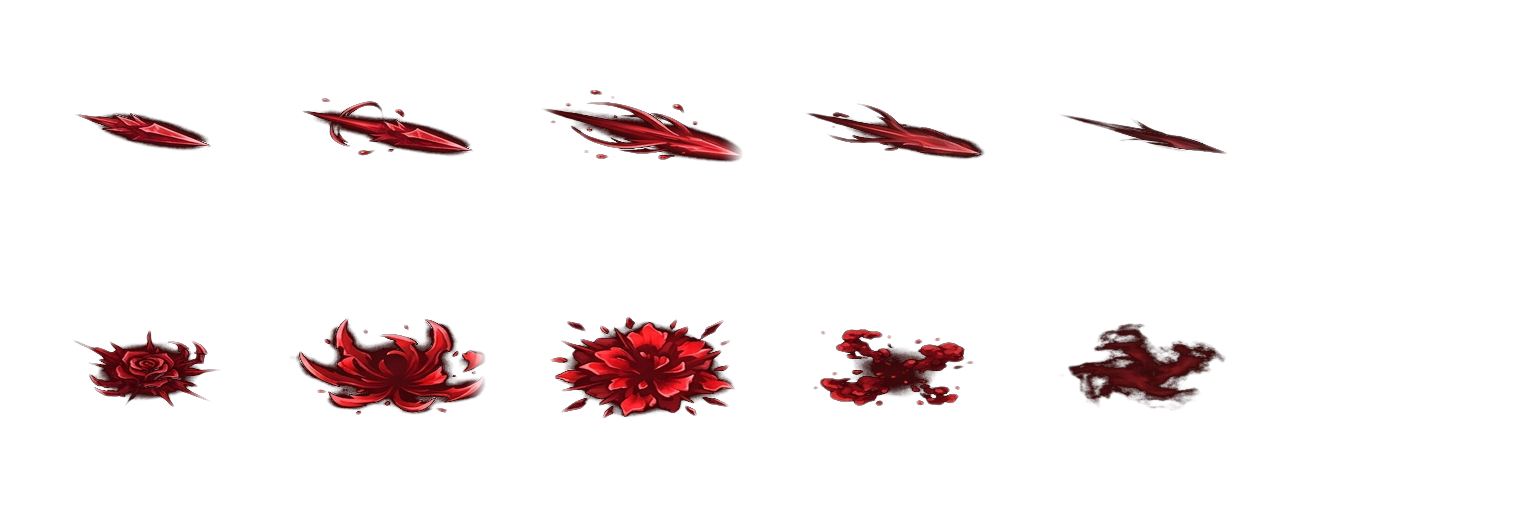
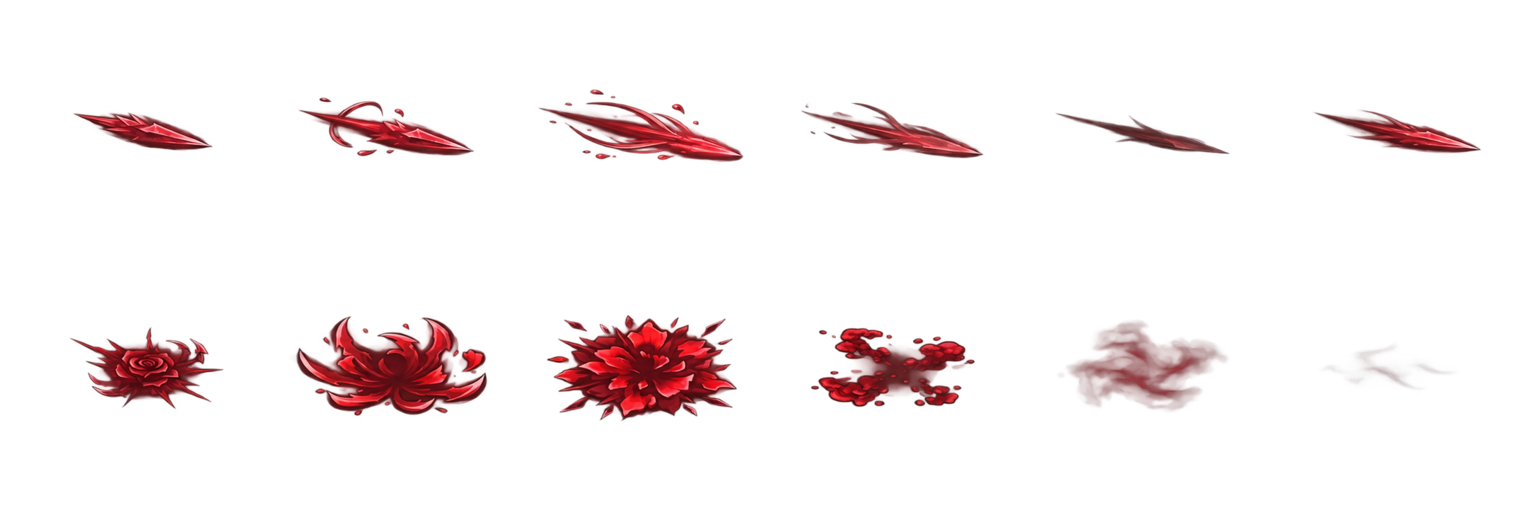
Twenty heroes: the Sanguine Lance's effect, repainted at six frames, imported
The v-vampire atlas now has all eight sheets (16 parts, 184 KB); the other
atlases come out byte for byte the same.

Claude-Session: https://claude.ai/code/session_01RRJtWnZjzY2RQUMSV9SJpv

diff --git a/docs/notes/twenty-heroes.md b/docs/notes/twenty-heroes.md
@@ -247,9 +247,8 @@ ChatGPT's six art PRs (from [twenty-heroes-art-prompts.md](twenty-heroes-art-pro
   About 16 MB in all, 0.8 MB a hero (the 45 average 0.7 MB).
 - **Effects**: the eight cleaned sheets are the `v-vampire` session in `art-source/spell-fx/v-vampire/` (its rows in
   `tools/spell-fx/spell-parts.json`, as the old branch had them), packed by `tools/spell-fx/import-spell-art.py` into
-  `src/art/fx/spells/v-vampire.webp` (14 parts, 163 KB; the ten atlases 3.97 MB of the 5 MB cap). The other atlases came out byte for byte
-  the same. **Sanguine Lance is left out**: its cleaned sheet has 5 frames a row and the brief asks 6 to 8, so the importer holds it back
-  (the game keeps its stand-in look for it) until ChatGPT adds a sixth frame to each row. `test/spell-fx.test.ts` counts the brief's sheets
+  `src/art/fx/spells/v-vampire.webp`. The other atlases came out byte for byte
+  the same. **Sanguine Lance** first came with 5 frames a row (the brief asks 6 to 8), so the importer held it back; ChatGPT repainted it at six (PR #352) and it is in (16 parts, 184 KB; the ten atlases 3.99 MB of the 5 MB cap). `test/spell-fx.test.ts` counts the brief's sheets
   and rows; the Vampires' eight sheets and sixteen rows move it from 158 and 302 to 166 and 318.
 - **Wired already**: the page finds a hero's art by its id (`heroes/<id>.webp`, `heroes/<id>-portrait.webp`, `heroes/awakened-<id>.webp`,
   `heroArtwork.ts`, `heroFaceRules.ts`), and `build.mjs` copies every file in `src/art/heroes/` and `src/art/fx/spells/` and lists it in the
